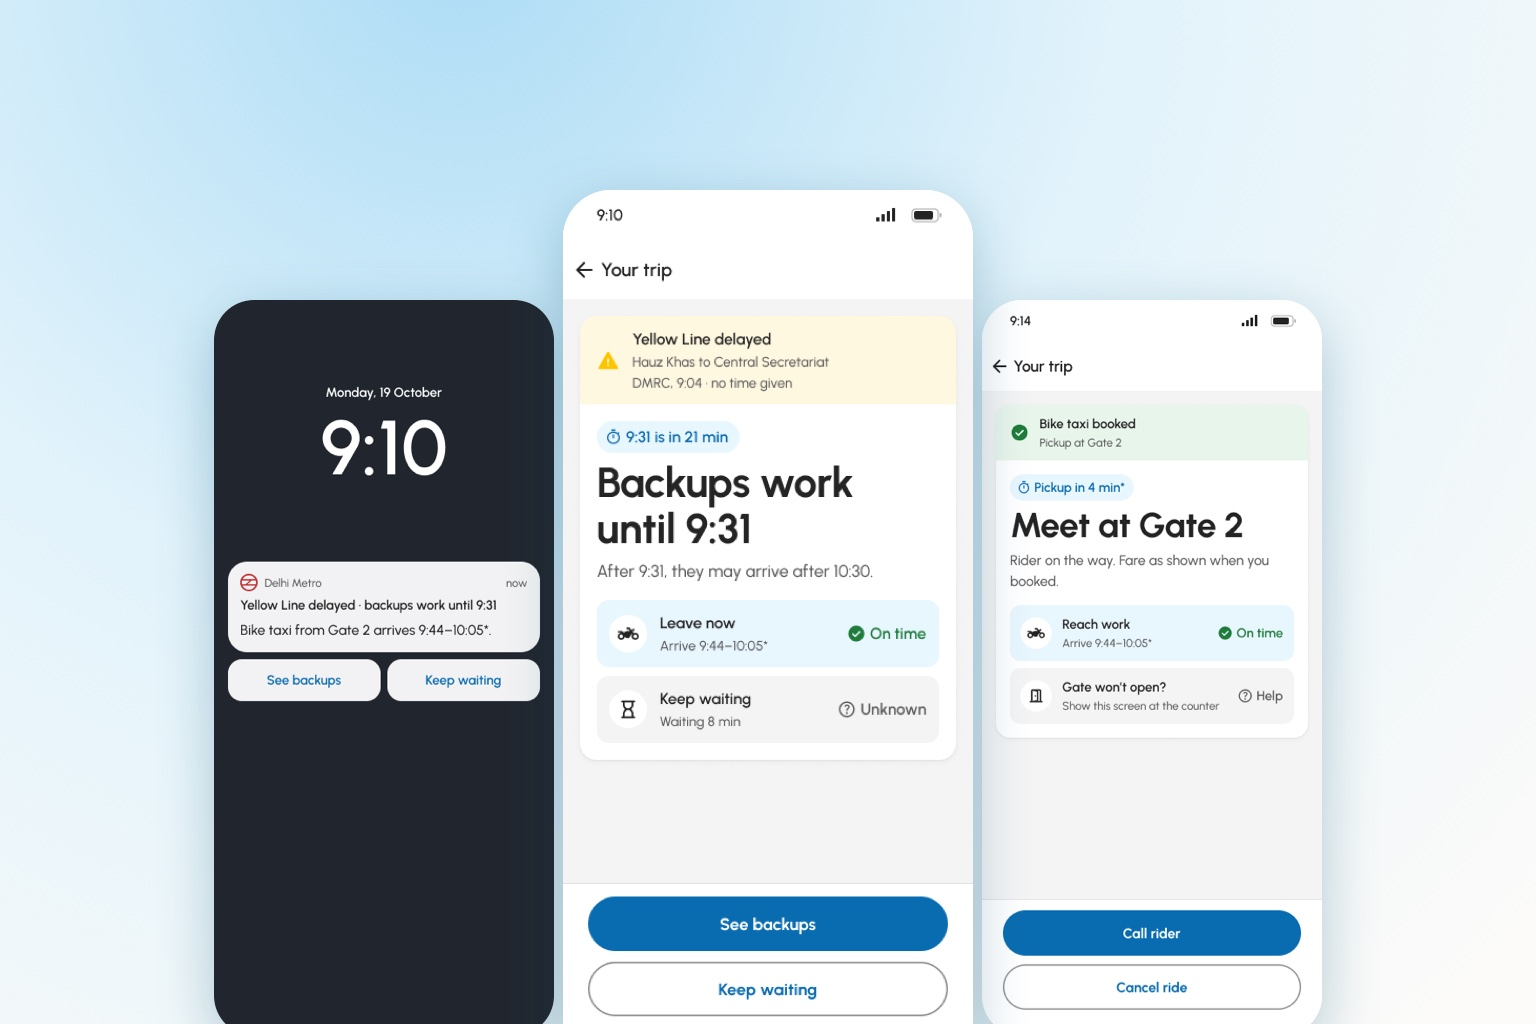
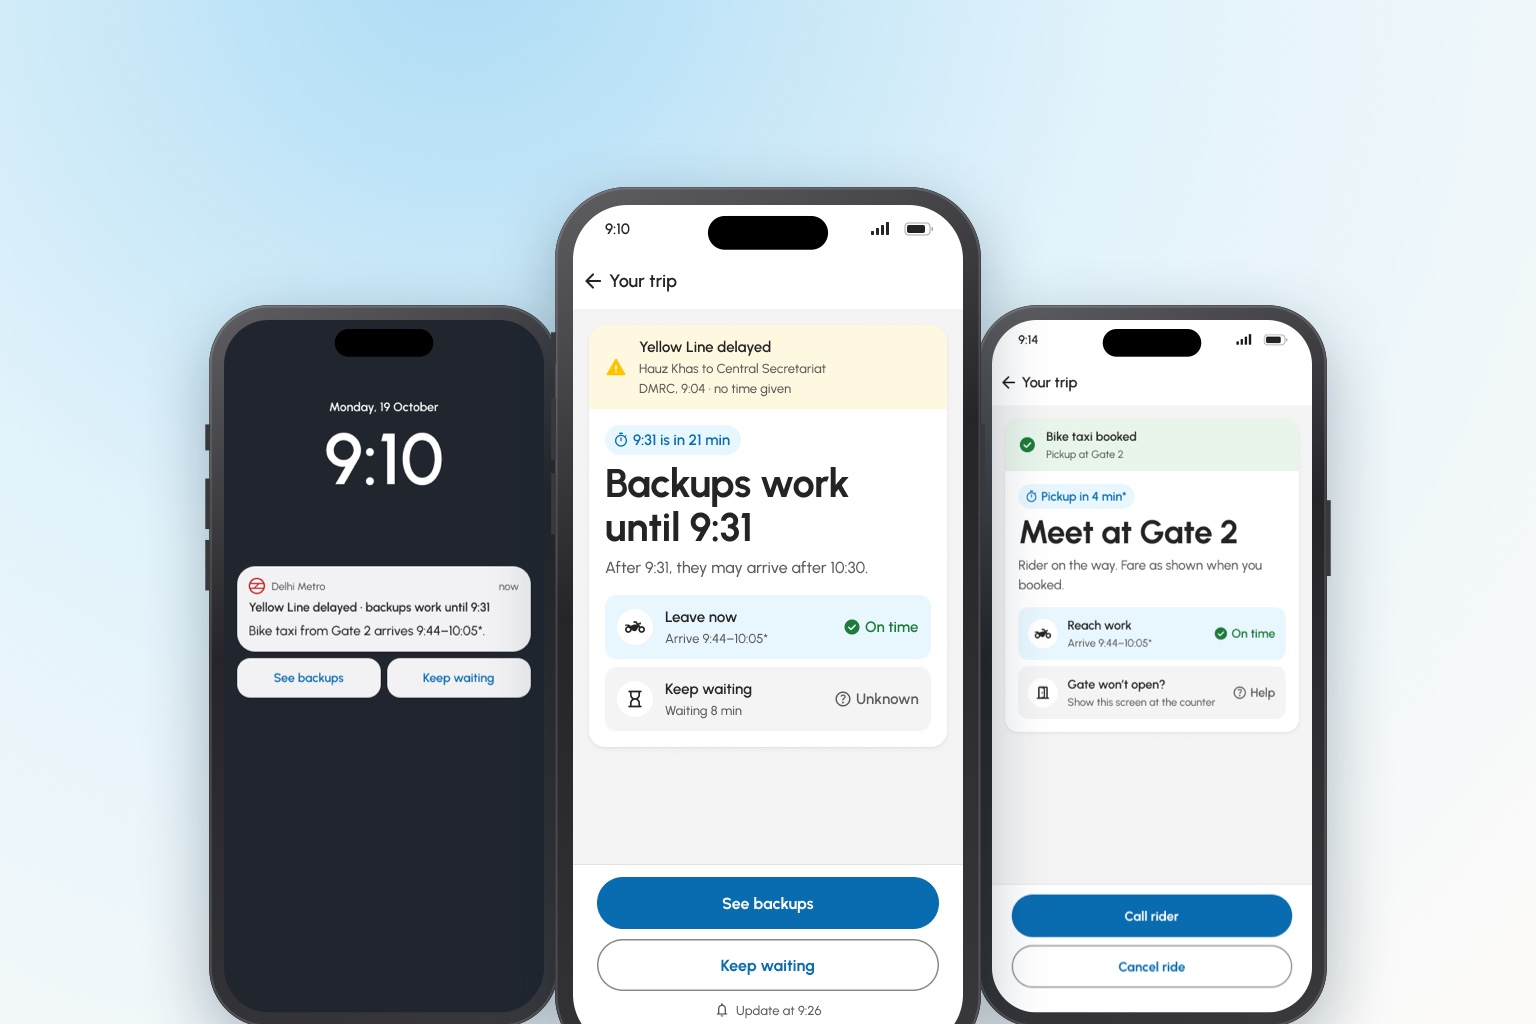
DMRC case study: put every screen in an iPhone frame
The screens sat as bare rounded screenshots. Each one now sits in an iPhone
frame drawn in CSS: a titanium bezel, the Dynamic Island over the status
bar, side buttons, and the screen's corners matched to the frame. All in
percentages, so it holds at any size. The light and dark heroes are
regenerated with the same frame.

diff --git a/app/signal/page.js b/app/signal/page.js
@@ -105,8 +105,33 @@ function Section({ id, title, lede, children }) {
   )
 }
 
+/*
+ * An iPhone frame around a 390 × 844 screen. Everything is in percentages of
+ * the frame's width, so it holds its proportions at any size: a 4.2% bezel,
+ * the screen's corner matched to the frame's, the Dynamic Island over the
+ * status bar's empty middle, and the side buttons.
+ */
+const BUTTONS = [
+  ['left', '16.5%', '3.6%'], ['left', '24%', '7%'], ['left', '32.5%', '7%'], ['right', '27%', '10.5%'],
+]
 const Phone = ({ src, alt, className = '' }) => (
-  <img src={`${V}/${src}.png`} alt={alt} loading="lazy" className={`sig-dim block h-auto w-full rounded-[22px] ${className}`} style={{ boxShadow: '0 2px 14px rgba(23,22,20,0.07)' }} />
+  <div
+    className={`relative ${className}`}
+    style={{
+      padding: '4.2%',
+      borderRadius: '17% / 8.2%',
+      background: 'linear-gradient(145deg, #4a4a4d 0%, #1c1c1e 38%, #2a2a2c 100%)',
+      boxShadow: '0 0 0 1px rgba(0,0,0,0.55), inset 0 0 0 1.5px rgba(255,255,255,0.14), 0 18px 40px rgba(23,22,20,0.16)',
+    }}
+  >
+    {BUTTONS.map(([side, top, h]) => (
+      <span key={side + top} aria-hidden="true" className="absolute w-[1.1%] rounded-sm" style={{ [side]: '-0.8%', top, height: h, background: '#2c2c2e' }} />
+    ))}
+    <div className="relative overflow-hidden" style={{ borderRadius: '14% / 6.47%', background: '#000' }}>
+      <img src={`${V}/${src}.png`} alt={alt} loading="lazy" className="sig-dim block h-auto w-full" />
+      <span aria-hidden="true" className="absolute rounded-full" style={{ top: '1.3%', left: '34.6%', width: '30.8%', height: '4%', background: '#000' }} />
+    </div>
+  </div>
 )
 
 export default function Signal() {
@@ -246,8 +271,8 @@ export default function Signal() {
         </div>
 
         <div className="track-wide mt-14 grid items-center gap-10 md:grid-cols-2">
-          <div className="rounded-2xl px-10 pt-10" style={{ background: 'var(--sig-tint)' }}>
-            <img src={`${V}/s3b-closure.png`} alt="Closure announced the night before: Rajiv Chowk exits closed tomorrow, nearest open exit Barakhamba Road" loading="lazy" className="sig-dim mx-auto block h-auto w-full max-w-[260px] rounded-t-[24px]" />
+          <div className="overflow-hidden rounded-2xl px-10 pt-10" style={{ background: 'var(--sig-tint)', height: 'clamp(340px, 34vw, 460px)' }}>
+            <Phone src="s3b-closure" alt="Closure announced the night before: Rajiv Chowk exits closed tomorrow, nearest open exit Barakhamba Road" className="mx-auto max-w-[260px]" />
           </div>
           <div className="space-y-3">
             <h3 className="subhead">When the closure is known the night before</h3>
